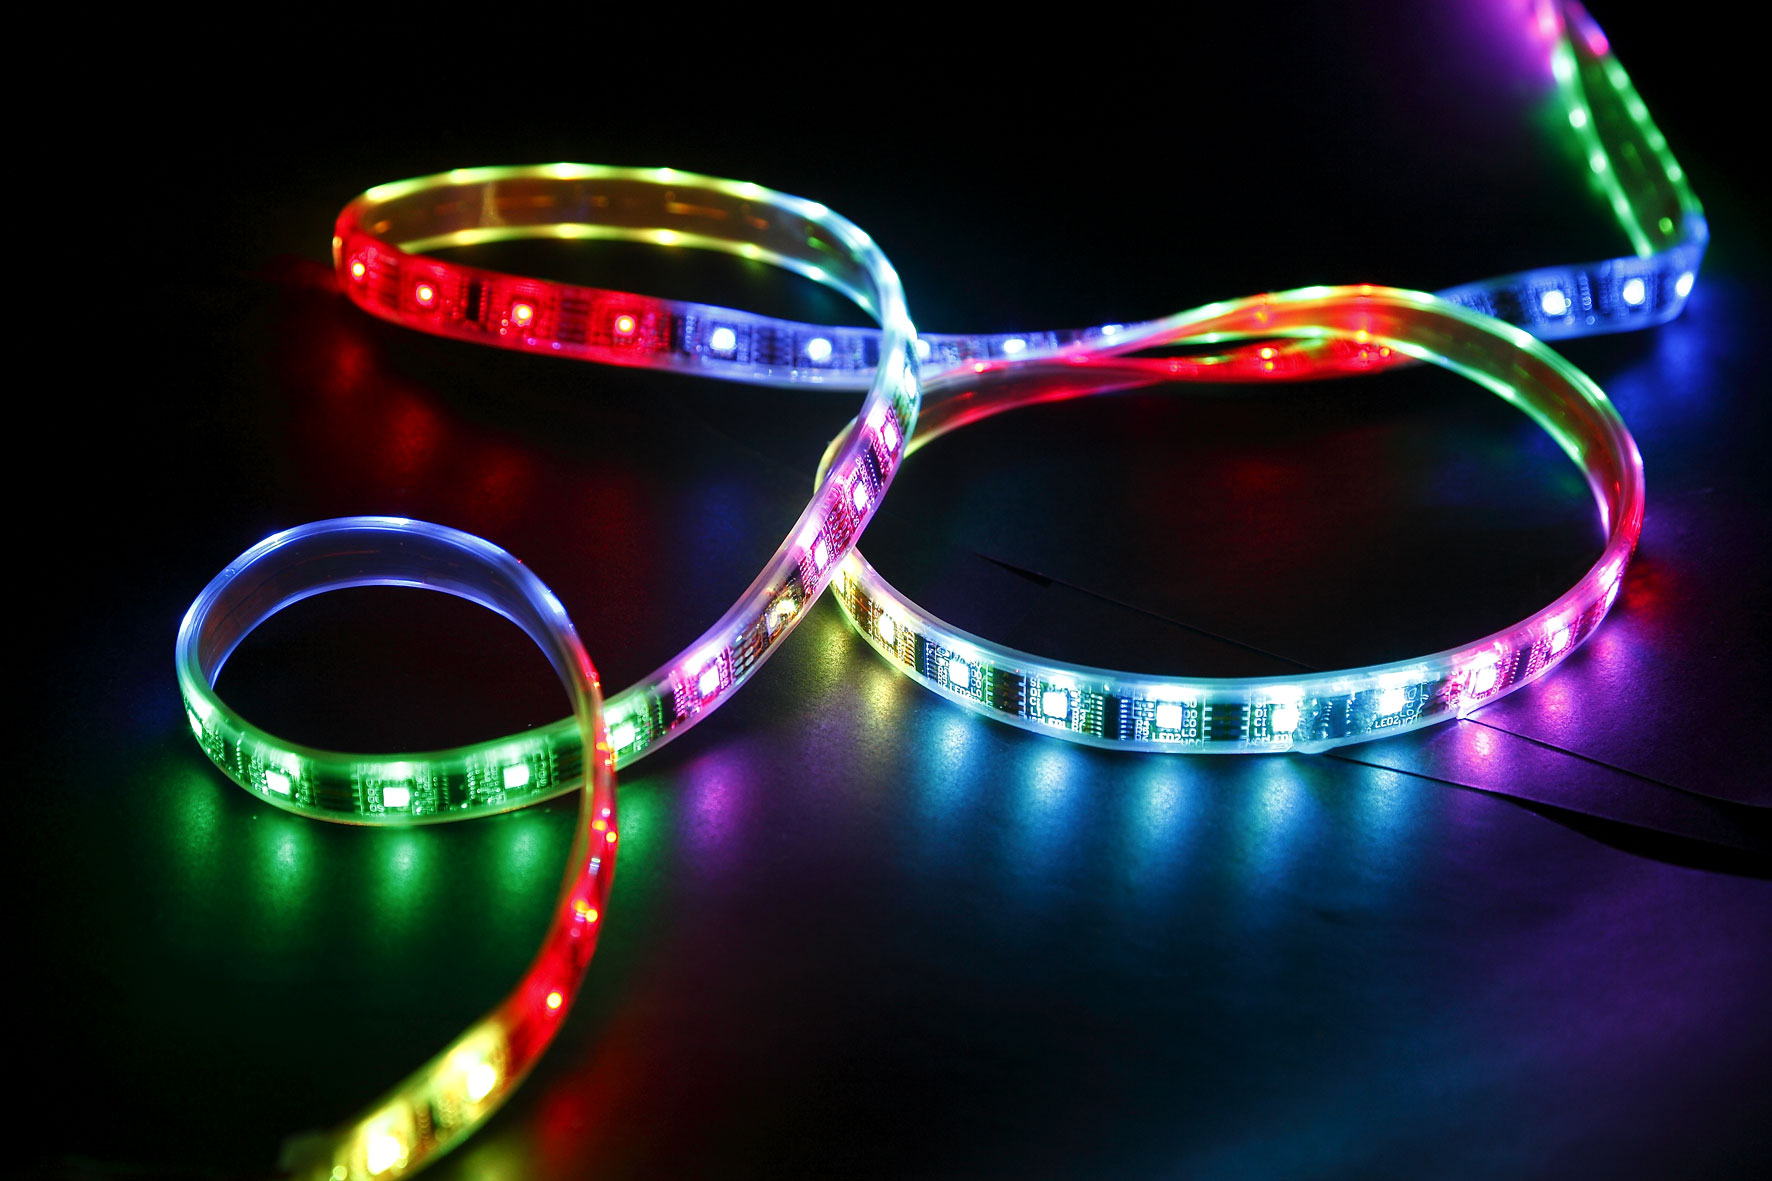
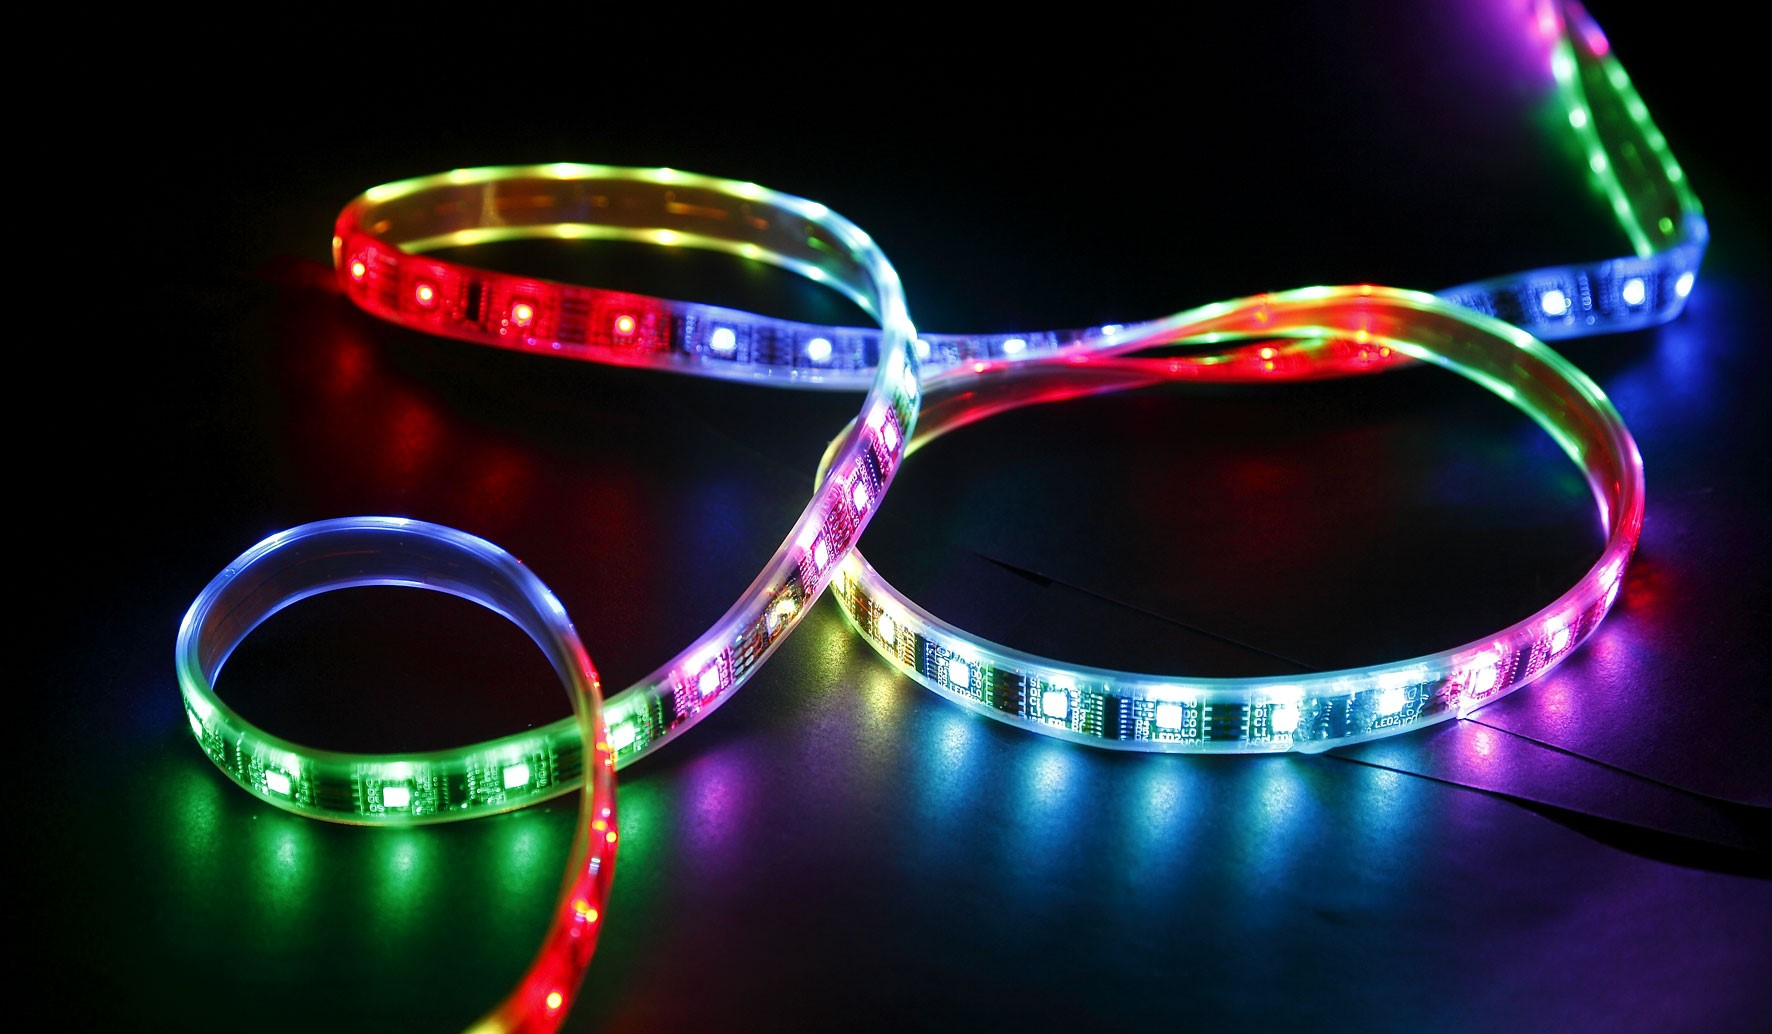
fix position

diff --git a/style.css b/style.css
@@ -1,5 +1,6 @@
 .jumbotron{
   height: 100vh;
+  background-color: #e7e7e7;
 }
 h2{
   color: #fff;
@@ -8,7 +9,9 @@ h2{
   background-color: #333;
 }
 .topeiei{
-  background-image: url("789.jpg")
+  background-image: url("789.jpg");
+  background-size: 100% 100%; 
+  
 }
 body{
   background-color: #e7e7e7;
